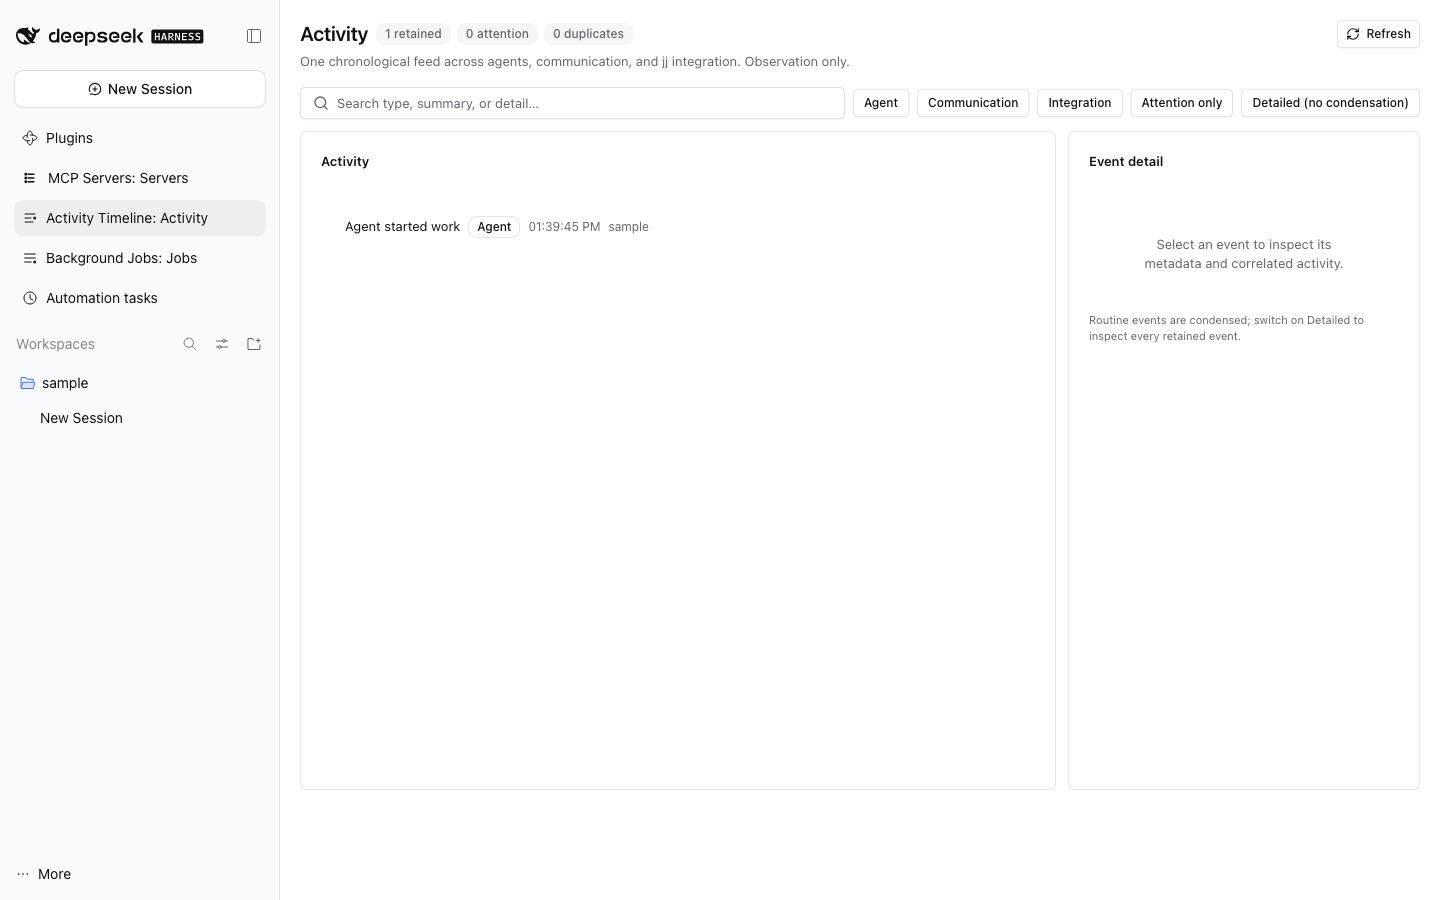
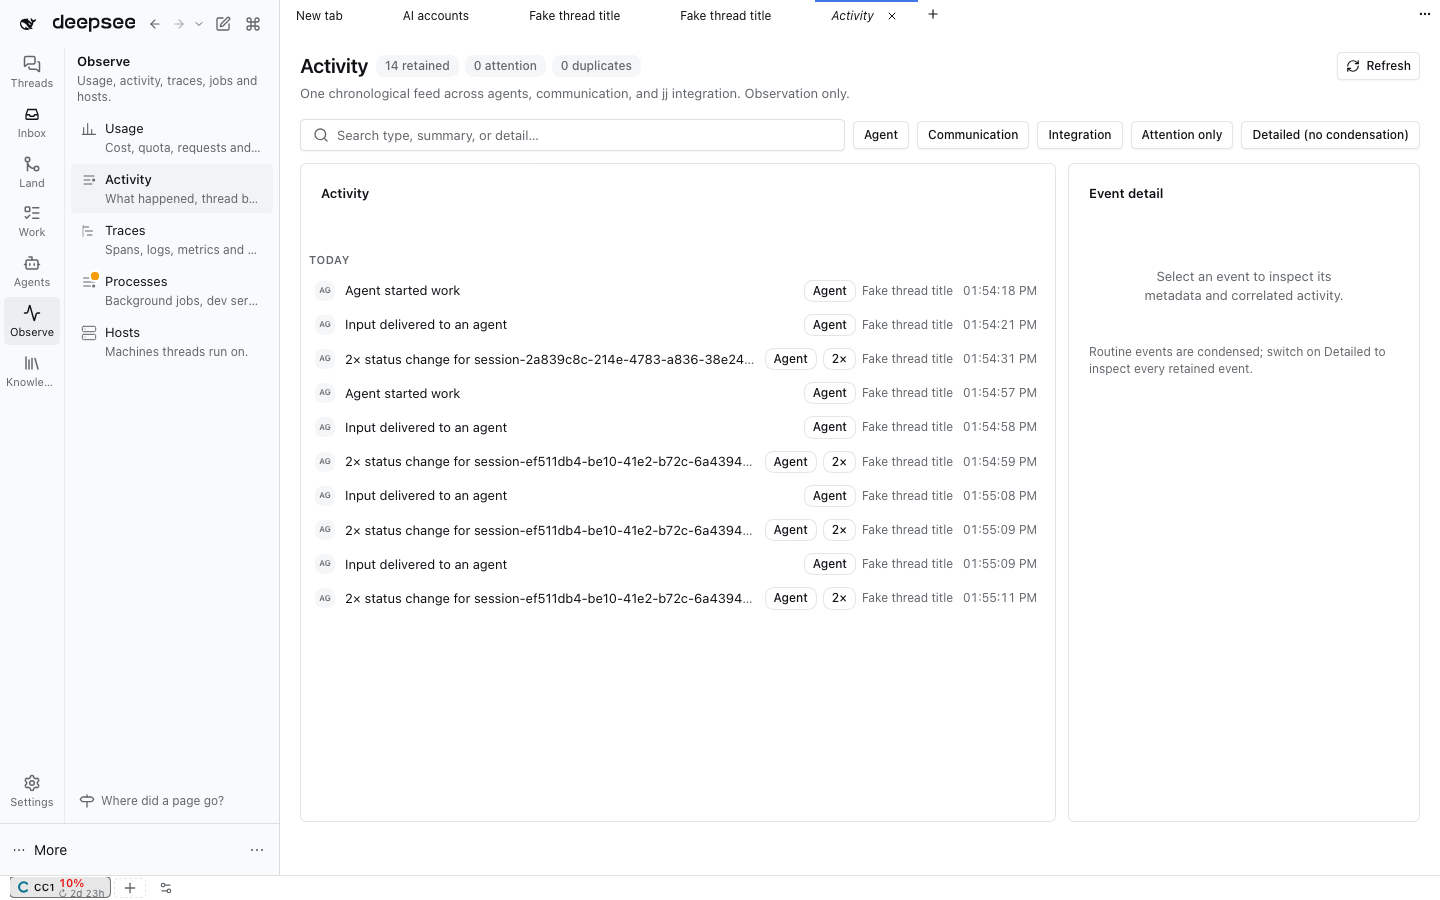
feat(activity-timeline): render the Activity log with the kit ActivityFeed
The Activity log rows were hand-assembled EntityRows that repeated the date on
every row older than today. The kit ActivityFeed groups rows under a day
heading, keeps only the clock per row and animates new events in, so the log
reads like the other feeds in the app.

ActivityFeed gains what a selectable log needs without forking it: a
ready-made summary line instead of actor/verb/target, a meta slot for the
source, count and thread chips, a selected row (aria-current), a dateTime on
the <time> element, and emptyLabel={null} for callers that own their empty
state. The e2e journey reads the new data-slot for row titles.

diff --git a/plugins/@dshfiles/activity-timeline/src/panel.tsx b/plugins/@dshfiles/activity-timeline/src/panel.tsx
@@ -1,8 +1,7 @@
 import { Alert, AlertDescription } from '@dshfiles/plugin-ui/components/ui/alert'
 import { Badge } from '@dshfiles/plugin-ui/components/ui/badge'
-import { EntityRow } from '@dshfiles/plugin-ui/components/entity-row'
+import { ActivityFeed, type ActivityActor, type ActivityFeedEvent } from '@dshfiles/plugin-ui/components/motion/activity-feed'
 import { EmptyState, Page } from '@dshfiles/plugin-ui/components/page'
-import type { WorkStatus } from '@dshfiles/plugin-ui/components/work-status'
 import { Button } from '@dshfiles/plugin-ui/components/ui/button'
 import { Card, CardContent, CardHeader, CardTitle } from '@dshfiles/plugin-ui/components/ui/card'
 import { SearchInput } from '@dshfiles/plugin-ui/components/ui/search-input'
@@ -18,7 +17,7 @@ import type { UiWorkspace } from '@deepseek-ai/dsh-client-ui-workspace/client'
 import { errorMessage, useMutation, useQuery } from '@dshfiles/plugin-ui/query'
 import { useApi } from '@dshfiles/dshx/client'
 import type { ActivityEvent, ActivityLevel, ActivitySource, CondensedItem } from './types.js'
-import { useEffect, useMemo, useRef, useState } from 'react'
+import { useCallback, useEffect, useMemo, useRef, useState } from 'react'
 import { activityTimelineApi } from './api.js'
 import { createFeedHistory, mergeFeedItems } from './feed-history.js'
 import { runHostRequest } from '@dshfiles/plugin-ui/lib/host-request'
@@ -33,8 +32,14 @@ const NO_ITEMS: readonly CondensedItem[] = []
 /** Dark cockpit: only attention gets colour; the source stays a neutral chip. */
 const badgeVariant = (item: CondensedItem): 'outline' | 'destructive' => (item.level === 'attention' ? 'destructive' : 'outline')
 
-/** Attention events are agent errors and failed or blocked work, so they read as Failed; the rest are informational. */
-const itemStatus = (item: CondensedItem): WorkStatus => (item.level === 'attention' ? 'failed' : 'idle')
+const SOURCE_INITIALS = { session: 'AG', communication: 'CO', integration: 'JJ', workspace: 'WS', system: 'SY' } as const satisfies Record<
+  ActivitySource,
+  string
+>
+
+const formatDay = (at: number): string => new Date(at).toLocaleDateString(undefined, { year: 'numeric', month: 'short', day: 'numeric' })
+
+const formatClock = (at: number): string => new Date(at).toLocaleTimeString(undefined, { hour: '2-digit', minute: '2-digit', second: '2-digit' })
 
 /**
  * A clock alone is ambiguous the moment a timeline spans more than one day:
@@ -43,38 +48,46 @@ const itemStatus = (item: CondensedItem): WorkStatus => (item.level === 'attenti
  */
 const formatTime = (at: number, now: number = Date.now()): string => {
   const date = new Date(at)
-  const time = date.toLocaleTimeString(undefined, { hour: '2-digit', minute: '2-digit', second: '2-digit' })
+  const time = formatClock(at)
   if (date.toDateString() === new Date(now).toDateString()) return time
-  return `${date.toLocaleDateString(undefined, { year: 'numeric', month: 'short', day: 'numeric' })} ${time}`
+  return `${formatDay(at)} ${time}`
 }
 
 /** The unambiguous spelling, for a hover or an event detail. */
 const formatExact = (at: number): string => new Date(at).toLocaleString()
 
-const ActivityRow = (props: {
+/** Rows group under their day, so each row keeps only its clock; attention is the one actor tile with colour. */
+const feedEvent = (props: {
   readonly item: CondensedItem
   readonly selected: boolean
   readonly t: ActivityTimelineTranslate
   readonly sessionLabel: (sessionId: string) => string
-  readonly onSelect: (item: CondensedItem) => void
-}): JSX.Element => (
-  <EntityRow
-    status={itemStatus(props.item)}
-    statusDecorative
-    selected={props.selected}
-    onSelect={() => props.onSelect(props.item)}
-    heading={props.item.summary}
-    meta={
+  readonly today: string
+}): ActivityFeedEvent => {
+  const item = props.item
+  const actor: ActivityActor = {
+    name: props.t(item.source),
+    initials: SOURCE_INITIALS[item.source],
+    tone: item.level === 'attention' ? 'destructive' : 'muted',
+  }
+  const day = formatDay(item.at)
+  return {
+    id: item.id,
+    actor,
+    summary: item.summary,
+    time: formatClock(item.at),
+    dateTime: new Date(item.at).toISOString(),
+    group: day === props.today ? props.t('today') : day,
+    selected: props.selected,
+    meta: (
       <>
-        <Badge variant={badgeVariant(props.item)}>{props.t(props.item.source)}</Badge>
-        {props.item.count > 1 ? <Badge variant="outline">{props.item.count}×</Badge> : null}
-        <span title={formatExact(props.item.at)}>{formatTime(props.item.at)}</span>
-        {props.item.sessionId === null ? null : <span className="dshx:truncate">{props.sessionLabel(props.item.sessionId)}</span>}
-        {props.item.correlationId === null ? null : <span>correlation {props.item.correlationId}</span>}
+        <Badge variant={badgeVariant(item)}>{props.t(item.source)}</Badge> {item.count > 1 ? <Badge variant="outline">{item.count}×</Badge> : null}{' '}
+        {item.sessionId === null ? null : <span className="dshx:min-w-0 dshx:truncate">{props.sessionLabel(item.sessionId)}</span>}{' '}
+        {item.correlationId === null ? null : <span className="dshx:truncate">correlation {item.correlationId}</span>}
       </>
-    }
-  />
-)
+    ),
+  }
+}
 
 export const ActivityTimelinePanel = (props: {
   readonly sessions: ISessions
@@ -197,6 +210,13 @@ export const ActivityTimelinePanel = (props: {
     return merged
   }, [older, newestItems])
   const newestId = items.length === 0 ? null : (items[items.length - 1]?.id ?? null)
+  const today = formatDay(feedQuery.dataUpdatedAt)
+  const feedEvents = useMemo(
+    () => items.map(item => feedEvent({ item, selected: selected?.id === item.id, t, sessionLabel, today })),
+    [items, selected?.id, t, sessionLabel, today],
+  )
+  const itemsById = useMemo(() => new Map(items.map(item => [item.id, item])), [items])
+  const selectFeedEvent = useCallback((event: ActivityFeedEvent) => setSelected(itemsById.get(event.id) ?? null), [itemsById])
 
   useEffect(() => {
     setNavigationError('')
@@ -342,9 +362,7 @@ export const ActivityTimelinePanel = (props: {
                 <EmptyState>{debouncedSearch.length === 0 && sources.length === 0 && !attentionOnly ? t('noActivity') : t('noMatch')}</EmptyState>
               ) : null}
               <div key="activity-older-sentinel" ref={olderSentinel} aria-hidden="true" style={{ flex: '0 0 1px', height: 1 }} />
-              {items.map(item => (
-                <ActivityRow key={item.id} item={item} selected={selected?.id === item.id} t={t} sessionLabel={sessionLabel} onSelect={setSelected} />
-              ))}
+              <ActivityFeed events={feedEvents} emptyLabel={null} onSelectEvent={selectFeedEvent} />
             </div>
             {olderMutation.isPending ? (
               <p className="dshx:p-1 dshx:text-xs dshx:text-muted-foreground" role="status">

diff --git a/plugins/@dshfiles/plugin-ui/src/components/motion/activity-feed.tsx b/plugins/@dshfiles/plugin-ui/src/components/motion/activity-feed.tsx
@@ -16,18 +16,26 @@ export interface ActivityFeedEvent {
   readonly id: string
   readonly actor: ActivityActor
   /** "completed", "moved", "commented on". */
-  readonly verb: string
+  readonly verb?: string
   /** The thing acted on, shown bold. */
-  readonly target: string
+  readonly target?: string
   /** Optional second object: "to" + "Review". */
   readonly preposition?: string
   readonly destination?: string
   /** Where it happened ("Mobile App"), shown as "in …". */
   readonly scope?: string
+  /** A ready-made line ("Agent reported an error") shown instead of actor · verb · target. */
+  readonly summary?: string
   /** Relative time label ("5d ago"). */
   readonly time: string
+  /** Machine-readable instant for the `<time>` element. */
+  readonly dateTime?: string
   /** Section heading this event belongs to ("This week", "Earlier"); sections keep first-appearance order. */
   readonly group: string
+  /** Chips after the sentence (source, count, thread), before the time. */
+  readonly meta?: React.ReactNode
+  /** The row is the one an adjacent detail pane shows. */
+  readonly selected?: boolean
 }
 
 export interface ActivityFeedProps<F extends string> extends Omit<React.HTMLAttributes<HTMLElement>, 'onSelect'> {
@@ -40,7 +48,8 @@ export interface ActivityFeedProps<F extends string> extends Omit<React.HTMLAttr
   /** Groups whose rows read as older (dimmer times). */
   readonly quietGroups?: readonly string[]
   readonly onSelectEvent?: (event: ActivityFeedEvent) => void
-  readonly emptyLabel?: string
+  /** `null` renders nothing, for a caller that shows its own empty or loading state. */
+  readonly emptyLabel?: React.ReactNode
 }
 
 const noGroups: readonly string[] = []
@@ -114,7 +123,7 @@ export function ActivityFeed<F extends string>({
           {actions}
         </div>
       ) : null}
-      {events.length === 0 ? <p className="dshx:py-6 dshx:text-center dshx:text-sm dshx:text-muted-foreground">{emptyLabel}</p> : null}
+      {events.length === 0 && emptyLabel !== null ? <p className="dshx:py-6 dshx:text-center dshx:text-sm dshx:text-muted-foreground">{emptyLabel}</p> : null}
       <PresenceList as="div" role="feed" aria-label="Activity" className="dshx:flex dshx:flex-col" enter="dropIn" items={items} />
     </section>
   )
@@ -129,19 +138,22 @@ function FeedRow({
   readonly quiet: boolean
   readonly onSelect: ((event: ActivityFeedEvent) => void) | undefined
 }) {
-  const sentence = (
-    <>
-      <span className="dshx:font-medium dshx:text-foreground">{event.actor.name}</span> {event.verb}{' '}
-      <span className="dshx:font-medium dshx:text-foreground">{event.target}</span>
-      {event.preposition && event.destination ? (
-        <>
-          {' '}
-          {event.preposition} <span className="dshx:text-foreground">{event.destination}</span>
-        </>
-      ) : null}
-      {event.scope ? <> in {event.scope}</> : null}
-    </>
-  )
+  const sentence =
+    event.summary !== undefined ? (
+      <span className="dshx:text-foreground">{event.summary}</span>
+    ) : (
+      <>
+        <span className="dshx:font-medium dshx:text-foreground">{event.actor.name}</span> {event.verb}{' '}
+        <span className="dshx:font-medium dshx:text-foreground">{event.target}</span>
+        {event.preposition && event.destination ? (
+          <>
+            {' '}
+            {event.preposition} <span className="dshx:text-foreground">{event.destination}</span>
+          </>
+        ) : null}
+        {event.scope ? <> in {event.scope}</> : null}
+      </>
+    )
   const body = (
     <>
       <span
@@ -153,8 +165,18 @@ function FeedRow({
       >
         {event.actor.initials}
       </span>
-      <span className="dshx:min-w-0 dshx:flex-1 dshx:truncate dshx:text-left dshx:text-muted-foreground">{sentence}</span>
+      <span data-slot="activity-feed-sentence" className="dshx:min-w-0 dshx:flex-1 dshx:truncate dshx:text-left dshx:text-muted-foreground">
+        {sentence}
+      </span>{' '}
+      {event.meta === undefined ? null : (
+        <>
+          <span className="dshx:flex dshx:min-w-0 dshx:shrink dshx:items-center dshx:gap-1.5 dshx:text-xs dshx:text-muted-foreground dshx:@max-pane-narrow:hidden">
+            {event.meta}
+          </span>{' '}
+        </>
+      )}
       <time
+        dateTime={event.dateTime}
         className={cn(
           'dshx:shrink-0 dshx:text-xs dshx:whitespace-nowrap dshx:tabular-nums',
           quiet ? 'dshx:text-muted-foreground/50' : 'dshx:text-muted-foreground',
@@ -164,11 +186,15 @@ function FeedRow({
       </time>
     </>
   )
-  const rowClass =
-    'dshx:flex dshx:w-full dshx:items-center dshx:gap-2.5 dshx:rounded-md dshx:px-1.5 dshx:py-1.5 dshx:text-[13px] dshx:transition-colors dshx:hover:bg-accent/60'
+  const rowClass = cn(
+    'dshx:flex dshx:w-full dshx:items-center dshx:gap-2.5 dshx:rounded-md dshx:px-1.5 dshx:py-1.5 dshx:text-[13px] dshx:transition-colors dshx:hover:bg-accent/60',
+    event.selected === true && 'dshx:bg-accent',
+  )
   return onSelect ? (
     <button
       type="button"
+      aria-current={event.selected === true ? 'true' : undefined}
+      data-selected={event.selected === true ? '' : undefined}
       onClick={() => onSelect(event)}
       className={cn(rowClass, 'dshx:outline-none dshx:focus-visible:ring-2 dshx:focus-visible:ring-ring/50')}
     >

diff --git a/tooling/dshx/e2e/support/plugin-journeys/activity-timeline.steps.ts b/tooling/dshx/e2e/support/plugin-journeys/activity-timeline.steps.ts
@@ -4,10 +4,10 @@ import { Then, When } from '../bdd.js'
 import { finishJourneyAssertions, recordAssertion } from '../steps.js'
 import { sendMessage } from '../threads.js'
 
-// Feed rows are kit EntityRows: summary first, then the source chip and the time.
+// Feed rows are kit ActivityFeed rows: summary first, then the source chip and the clock.
 const feedRows = (page: Page) => page.getByRole('button', { name: /.+ (Agent|Communication|Integration|Workspace|System) .*\d{2}:\d{2}:\d{2}/ })
 const rowTitles = async (page: Page): Promise<readonly string[]> =>
-  (await feedRows(page).locator('[data-slot="entity-row-title"]').allInnerTexts()).map(title => title.trim()).filter(title => title.length > 0)
+  (await feedRows(page).locator('[data-slot="activity-feed-sentence"]').allInnerTexts()).map(title => title.trim()).filter(title => title.length > 0)
 
 export const openActivity = async (page: Page): Promise<void> => {
   await openGlobalPanel(page, 'Activity Timeline: Activity')

diff --git a/plugins/@dshfiles/activity-timeline/src/locales.ts b/plugins/@dshfiles/activity-timeline/src/locales.ts
@@ -42,6 +42,7 @@ const en = {
   groupMembers: 'Grouped events',
   events: 'events',
   routineHidden: 'Routine events are condensed; switch on Detailed to inspect every retained event.',
+  today: 'Today',
   emptyDetail: 'Select an event to inspect its metadata and correlated activity.',
   openSession: 'Open Session',
   sessionUnavailable: 'This Session is archived or unavailable and cannot be opened.',
@@ -87,6 +88,7 @@ const zh = {
   groupMembers: '分组事件',
   events: '个事件',
   routineHidden: '常规事件已压缩；开启“详细”可查看全部保留事件。',
+  today: '今天',
   emptyDetail: '选择一个事件以查看其元数据与相关活动。',
   openSession: '打开会话',
   sessionUnavailable: '此会话已归档或不可用，无法打开。',
